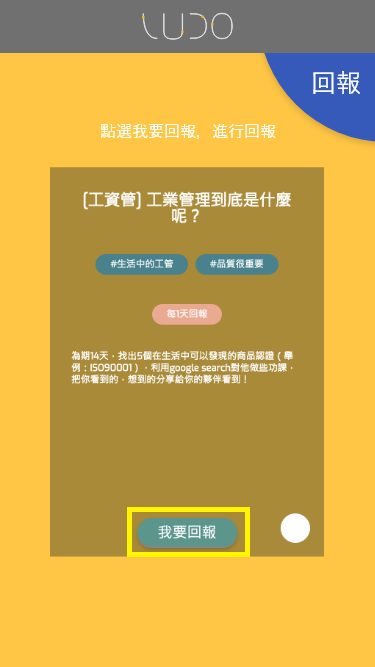
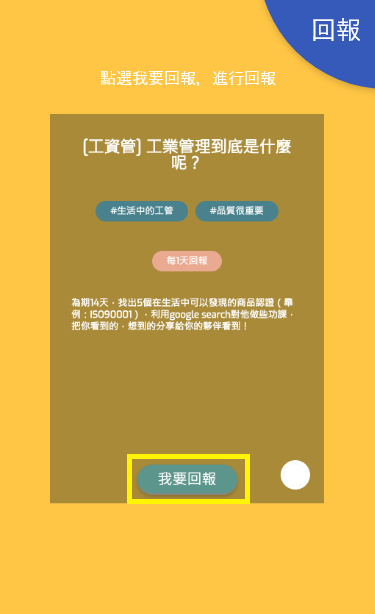
[Update] mobile tutorial images and modify prev and next button of slide show

Changed region(s): [[0.0, 0.0, 1.0, 0.5879], [0.1173, 0.7117, 0.88, 0.8355]]

diff --git a/src/js/Tutorial/decorators.js b/src/js/Tutorial/decorators.js
@@ -1,0 +1,135 @@
+import React from 'react';
+import createReactClass from 'create-react-class';
+
+const DefaultDecorators = [
+  {
+    component: createReactClass({
+      handleClick(e) {
+        e.preventDefault();
+        this.props.previousSlide();
+      },
+      getButtonStyles(disabled) {
+        return {
+            background: 'rgba(0,0,0,0.4)',
+            border: 0,
+            color: 'white',
+            cursor: 'pointer',
+            opacity: disabled ? 0.3 : 1,
+            outline: 0,
+            padding: 10,
+            transform: 'rotate(180deg)',
+        };
+      },
+      render() {
+        return (
+          <button
+            style={this.getButtonStyles(
+              this.props.currentSlide === 0 && !this.props.wrapAround
+            )}
+            onClick={this.handleClick}
+          >
+            ➜
+          </button>
+        );
+      }
+    }),
+    position: 'CenterLeft'
+  },
+  {
+    component: createReactClass({
+      handleClick(e) {
+        e.preventDefault();
+        this.props.nextSlide();
+      },
+      getButtonStyles(disabled) {
+        return {
+            background: 'rgba(0,0,0,0.4)',
+            border: 0,
+            color: 'white',
+            cursor: 'pointer',
+            opacity: disabled ? 0.3 : 1,
+            outline: 0,
+            padding: 10,
+        };
+      },
+      render() {
+        return (
+          <button
+            style={this.getButtonStyles(
+              this.props.currentSlide + this.props.slidesToScroll >=
+                this.props.slideCount && !this.props.wrapAround
+            )}
+            onClick={this.handleClick}
+          >
+            ➜
+          </button>
+        );
+      }
+    }),
+    position: 'CenterRight'
+  },
+  {
+    component: createReactClass({
+      getIndexes(count, inc) {
+        const arr = [];
+        for (let i = 0; i < count; i += inc) {
+          arr.push(i);
+        }
+        return arr;
+      },
+      getListStyles() {
+        return {
+          position: 'relative',
+          margin: 0,
+          top: -10,
+          padding: 0
+        };
+      },
+      getListItemStyles() {
+        return {
+          listStyleType: 'none',
+          display: 'inline-block'
+        };
+      },
+      getButtonStyles(active) {
+        return {
+          border: 0,
+          background: 'transparent',
+          color: 'black',
+          cursor: 'pointer',
+          padding: 10,
+          outline: 0,
+          fontSize: 24,
+          opacity: active ? 1 : 0.5
+        };
+      },
+      render() {
+        const indexes = this.getIndexes(
+          this.props.slideCount,
+          this.props.slidesToScroll
+        );
+        return (
+          <ul style={this.getListStyles()}>
+            {indexes.map(index => {
+              return (
+                <li style={this.getListItemStyles()} key={index}>
+                  <button
+                    style={this.getButtonStyles(
+                      this.props.currentSlide === index
+                    )}
+                    onClick={this.props.goToSlide.bind(null, index)}
+                  >
+                    &bull;
+                  </button>
+                </li>
+              );
+            })}
+          </ul>
+        );
+      }
+    }),
+    position: 'BottomCenter'
+  }
+];
+
+export default DefaultDecorators;

diff --git a/src/js/Tutorial/index.js b/src/js/Tutorial/index.js
@@ -2,6 +2,7 @@ import React from 'react';
 import styled from 'styled-components';
 import Carousel from 'nuka-carousel';
 
+import decorators from './decorators';
 import desktopImage1 from '../../images/tutorial/d-1.png';
 import desktopImage2 from '../../images/tutorial/d-2.png';
 import desktopImage3 from '../../images/tutorial/d-3.png';
@@ -11,7 +12,6 @@ import desktopImage6 from '../../images/tutorial/d-6.png';
 import desktopImage7 from '../../images/tutorial/d-7.png';
 import desktopImage8 from '../../images/tutorial/d-8.png';
 import desktopImage9 from '../../images/tutorial/d-9.png';
-
 import mobileImage1 from '../../images/tutorial/m-1.png';
 import mobileImage2 from '../../images/tutorial/m-2.png';
 import mobileImage3 from '../../images/tutorial/m-3.png';
@@ -52,7 +52,7 @@ const ImageWrapper = styled.div`
     justify-content: center;
 
     img {
-        width: 100%;
+        width: 99%;
     }
 `;
 
@@ -84,7 +84,7 @@ const Tutorial = () => {
 
     return (
         <Wrapper>
-            <Carousel>
+            <Carousel decorators={decorators}>
                 {
                     imageList.map((image, index) => (
                         <ImageWrapper key={`tutorial-image-${index}`} >
